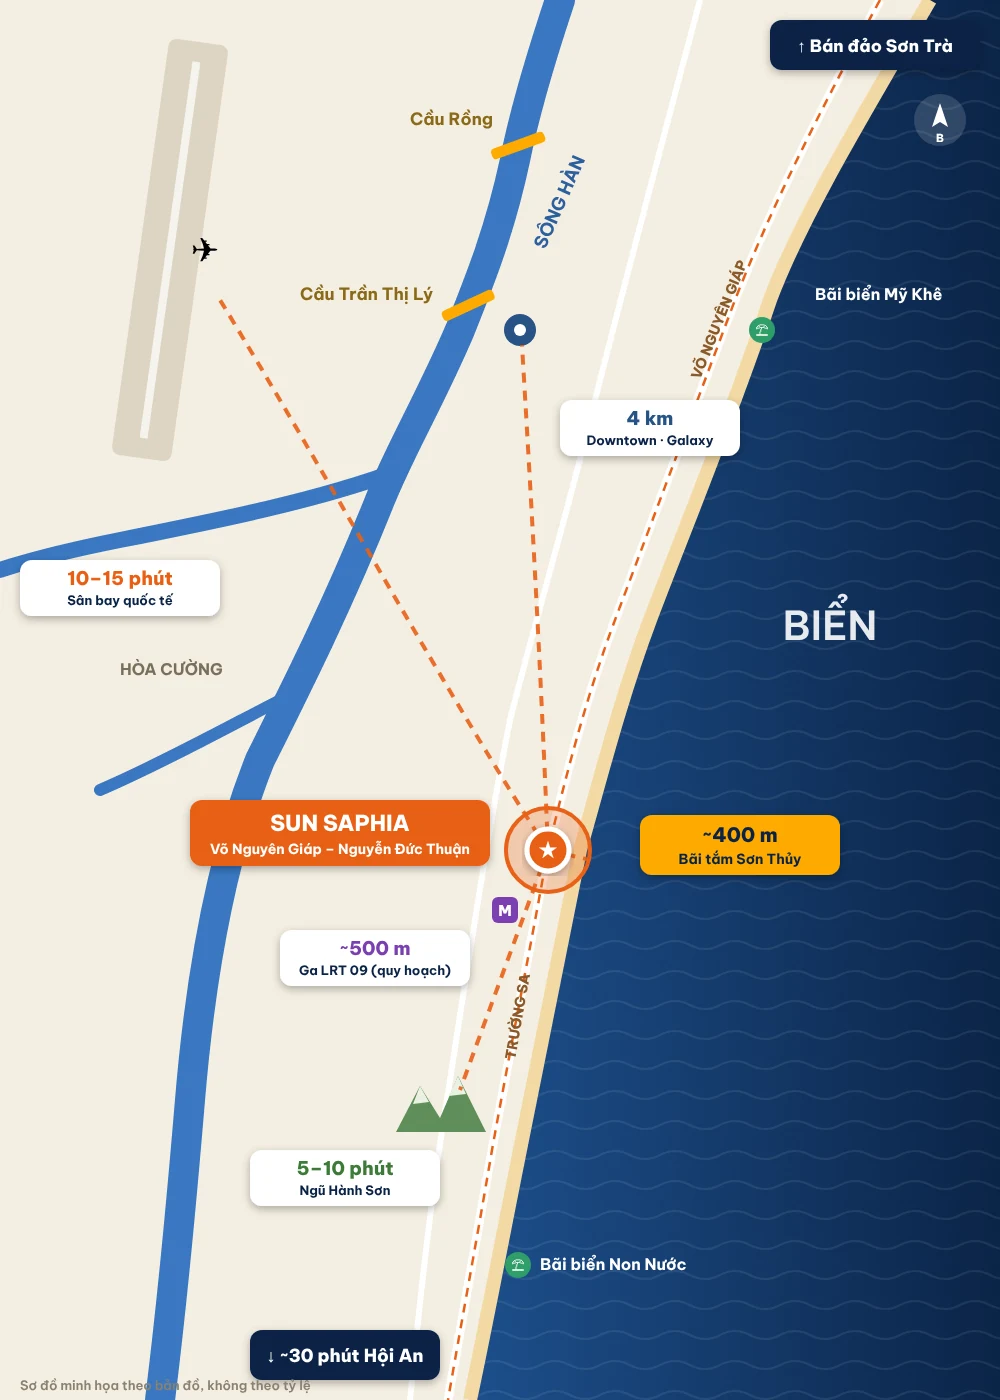
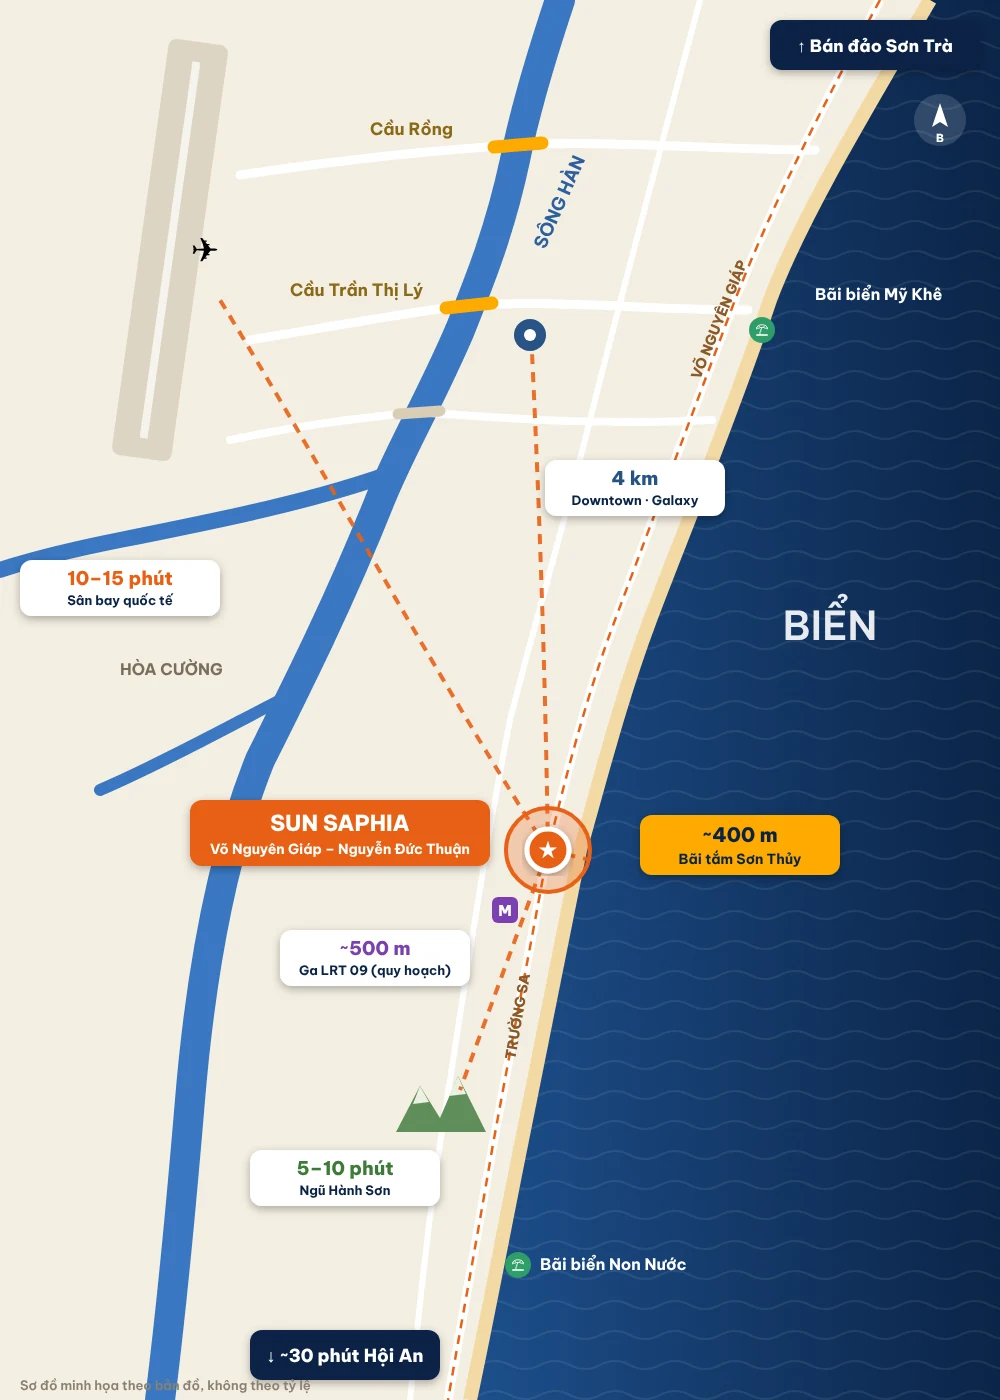
Sun Saphia: sơ đồ vị trí thêm đường qua cầu Rồng, Trần Thị Lý ra biển
Claude-Session: https://claude.ai/code/session_01QqqhqeJL7dLdZQGmjqHGDV

Changed region(s): [[0.248, 0.1843, 0.744, 0.5529], [0.279, 0.0614, 0.775, 0.1229], [0.248, 0.3071, 0.279, 0.3379]]

diff --git a/landing/sun-saphia/seo/anh-dang-page/nguon-so-do-vi-tri.html b/landing/sun-saphia/seo/anh-dang-page/nguon-so-do-vi-tri.html
@@ -18,8 +18,17 @@
 <path d="M300 690 C240 720 170 760 100 790" fill="none" stroke="#3a78c2" stroke-width="12" stroke-linecap="round"/>
 <text x="545" y="250" font-size="18" font-weight="700" fill="#2c5f9e" transform="rotate(-66 545 250)">SÔNG HÀN</text>
 <!-- bridges -->
-<rect x="490" y="140" width="56" height="11" rx="4" fill="#FFAA01" transform="rotate(-20 518 145)"/><text x="410" y="125" font-size="17" font-weight="700" fill="#8a6a1a">Cầu Rồng</text>
-<rect x="440" y="300" width="56" height="11" rx="4" fill="#FFAA01" transform="rotate(-25 468 305)"/><text x="300" y="300" font-size="17" font-weight="700" fill="#8a6a1a">Cầu Trần Thị Lý</text>
+<text x="370" y="135" font-size="17" font-weight="700" fill="#8a6a1a">Cầu Rồng</text>
+<text x="290" y="296" font-size="17" font-weight="700" fill="#8a6a1a">Cầu Trần Thị Lý</text>
+<!-- cross roads + bridges -->
+<g fill="none" stroke-linecap="round">
+<path d="M240 175 C340 160 430 150 518 145 C620 140 720 150 815 150" stroke="#fff" stroke-width="9"/>
+<path d="M250 340 C340 325 410 312 468 305 C560 300 650 310 748 310" stroke="#fff" stroke-width="9"/>
+<path d="M230 440 C300 425 360 418 418 412 C520 420 610 425 712 420" stroke="#fff" stroke-width="8"/>
+<path d="M494 147 L542 143" stroke="#FFAA01" stroke-width="13"/>
+<path d="M446 308 L492 303" stroke="#FFAA01" stroke-width="13"/>
+<path d="M398 414 L440 411" stroke="#d8cdb6" stroke-width="11"/>
+</g>
 <!-- roads -->
 <path d="M880 0 C820 110 770 210 735 300 C690 420 645 540 615 620 C585 700 565 780 548 850 C530 950 510 1050 492 1150 C475 1250 460 1330 448 1400" fill="none" stroke="#fff" stroke-width="9"/>
 <path d="M880 0 C820 110 770 210 735 300 C690 420 645 540 615 620 C585 700 565 780 548 850 C530 950 510 1050 492 1150 C475 1250 460 1330 448 1400" fill="none" stroke="#E96118" stroke-width="2.5" stroke-dasharray="9 7"/>
@@ -28,14 +37,14 @@
 <text x="515" y="1060" font-size="14" font-weight="800" fill="#8a5a2a" transform="rotate(-80 515 1060)">TRƯỜNG SA</text>
 <!-- places -->
 <text x="120" y="675" font-size="16" font-weight="700" fill="#7a6f5c">HÒA CƯỜNG</text>
-<g transform="translate(520,330)"><circle r="16" fill="#275286"/><circle r="6" fill="#fff"/></g>
+<g transform="translate(530,335)"><circle r="16" fill="#275286"/><circle r="6" fill="#fff"/></g>
 <g transform="translate(440,1110)"><path d="M-44 22 L-20 -24 L0 8 L18 -34 L46 22 Z" fill="#5f8f5a"/><path d="M-20 -24 L-11 -8 L-27 -6 Z M18 -34 L26 -16 L9 -14 Z" fill="#e9f1e2"/></g>
 <g transform="translate(762,330)"><circle r="13" fill="#2f9e6a"/><text y="5" font-size="13" text-anchor="middle" fill="#fff">⛱</text></g>
 <g transform="translate(518,1265)"><circle r="13" fill="#2f9e6a"/><text y="5" font-size="13" text-anchor="middle" fill="#fff">⛱</text></g>
 <g transform="translate(505,910)"><rect x="-13" y="-13" width="26" height="26" rx="6" fill="#7b3fb0"/><text y="6" font-size="15" fill="#fff" text-anchor="middle" font-weight="800">M</text></g>
 <!-- links -->
 <g stroke="#E96118" stroke-width="4" stroke-dasharray="10 8" fill="none" opacity=".9">
-<path d="M548 850 C450 700 330 480 220 300"/><path d="M548 850 C540 650 530 480 522 345"/><path d="M548 850 L590 860"/><path d="M548 850 L460 1090"/></g>
+<path d="M548 850 C450 700 330 480 220 300"/><path d="M548 850 C545 650 538 480 532 352"/><path d="M548 850 L590 860"/><path d="M548 850 L460 1090"/></g>
 <!-- Saphia -->
 <circle cx="548" cy="850" r="42" fill="rgba(233,97,24,.25)" stroke="#E96118" stroke-width="4"/>
 <circle cx="548" cy="850" r="21" fill="#E96118" stroke="#fff" stroke-width="5" filter="url(#sh)"/><text x="548" y="858" font-size="21" text-anchor="middle" fill="#fff">★</text>
@@ -44,7 +53,7 @@
 <rect x="640" y="815" width="200" height="60" rx="12" fill="#FFAA01"/><text x="740" y="842" font-size="20" fill="#0B2447" text-anchor="middle">~400 m</text><text x="740" y="864" font-size="14" fill="#0B2447" text-anchor="middle" font-weight="700">Bãi tắm Sơn Thủy</text>
 <rect x="280" y="930" width="190" height="56" rx="12" fill="#fff"/><text x="375" y="955" font-size="19" fill="#7b3fb0" text-anchor="middle">~500 m</text><text x="375" y="975" font-size="13" fill="#0B2447" text-anchor="middle" font-weight="700">Ga LRT 09 (quy hoạch)</text>
 <rect x="250" y="1150" width="190" height="56" rx="12" fill="#fff"/><text x="345" y="1175" font-size="19" fill="#3d7a38" text-anchor="middle">5–10 phút</text><text x="345" y="1195" font-size="13" fill="#0B2447" text-anchor="middle" font-weight="700">Ngũ Hành Sơn</text>
-<rect x="560" y="400" width="180" height="56" rx="12" fill="#fff"/><text x="650" y="425" font-size="19" fill="#275286" text-anchor="middle">4 km</text><text x="650" y="445" font-size="13" fill="#0B2447" text-anchor="middle" font-weight="700">Downtown · Galaxy</text>
+<rect x="545" y="460" width="180" height="56" rx="12" fill="#fff"/><text x="635" y="485" font-size="19" fill="#275286" text-anchor="middle">4 km</text><text x="635" y="505" font-size="13" fill="#0B2447" text-anchor="middle" font-weight="700">Downtown · Galaxy</text>
 <rect x="20" y="560" width="200" height="56" rx="12" fill="#fff"/><text x="120" y="585" font-size="19" fill="#E96118" text-anchor="middle">10–15 phút</text><text x="120" y="605" font-size="13" fill="#0B2447" text-anchor="middle" font-weight="700">Sân bay quốc tế</text>
 <rect x="250" y="1330" width="190" height="50" rx="12" fill="#0B2447"/><text x="345" y="1362" font-size="18" fill="#fff" text-anchor="middle">↓ ~30 phút Hội An</text>
 <rect x="770" y="20" width="210" height="50" rx="12" fill="#0B2447"/><text x="875" y="52" font-size="17" fill="#fff" text-anchor="middle">↑ Bán đảo Sơn Trà</text></g>
